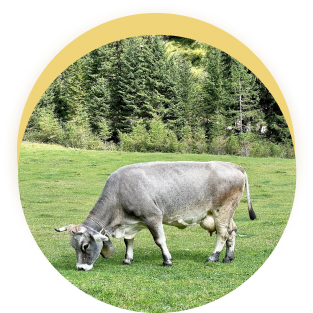
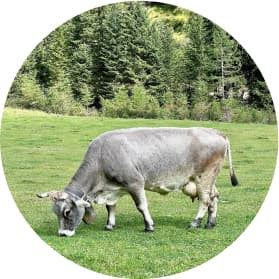
new images

diff --git a/src/partials/about.html b/src/partials/about.html
@@ -2,10 +2,31 @@
     <p>Tradition and love</p>
     <h2>How it's made?</h2>
     <picture>
-        <source srcset="./images/cow-about-desc.jpg 1x, ./images/cow-about-desc@2x.jpg 2x" media="(min-width: 1200px)" />
-        <source srcset="./images/cow-about-tablet.jpg 1x, ./images/cow-about-tablet@2x.jpg 2x" media="(min-width: 768px)" />
-        <source srcset="./images/cow-about-mobile.jpg 1x, ./images/cow-about-mobile@2x.jpg 2x" media="(max-width: 767px)" />
-        <img src="./images/cow-about-mobile.jpg" alt="Cow image" class="cow-photo">
+        <source srcset="
+                        ./images/cow-about-desk.webp    1x,
+                        ./images/cow-about-desk@2x.webp 2x,
+                      " media="(min-width: 1200px)" type="image/webp" />
+        <source srcset="
+                        ./images/cow-about-desk.jpg    1x,
+                        ./images/cow-about-desk@2x.jpg 2x,
+                      " media="(min-width: 1200px)" type="image/jpeg" />
+        <source srcset="
+                        ./images/cow-about-tablet.webp    1x,
+                        ./images/cow-about-tablet@2x.webp 2x,
+                      " media="(min-width: 768px)" type="image/webp" />
+        <source srcset="
+                        ./images/cow-about-tablet.jpg    1x,
+                        ./images/cow-about-tablet@2x.jpg 2x,
+                      " media="(min-width: 768px)" type="image/jpeg" />
+        <source srcset="
+                        ./images/cow-about-mobile.webp    1x,
+                        ./images/cow-about-mobile@2x.webp 2x,
+                      " media="(max-width: 767px)" type="image/webp" />
+        <source srcset="
+                        ./images/cow-about-mobile.jpg    1x,
+                        ./images/cow-about-mobile@2x.jpg 2x,
+                      " media="(max-width: 767px)" type="image/jpeg" />
+        <img src="./images/cow-about-mobile.jpg" alt="Фото корови" />
     </picture>
     <p>Ice is a place where you will become not only a little happier, but also healthier. Health is the main value for us, and
     we follow it when creating our handmade desserts.</p>
